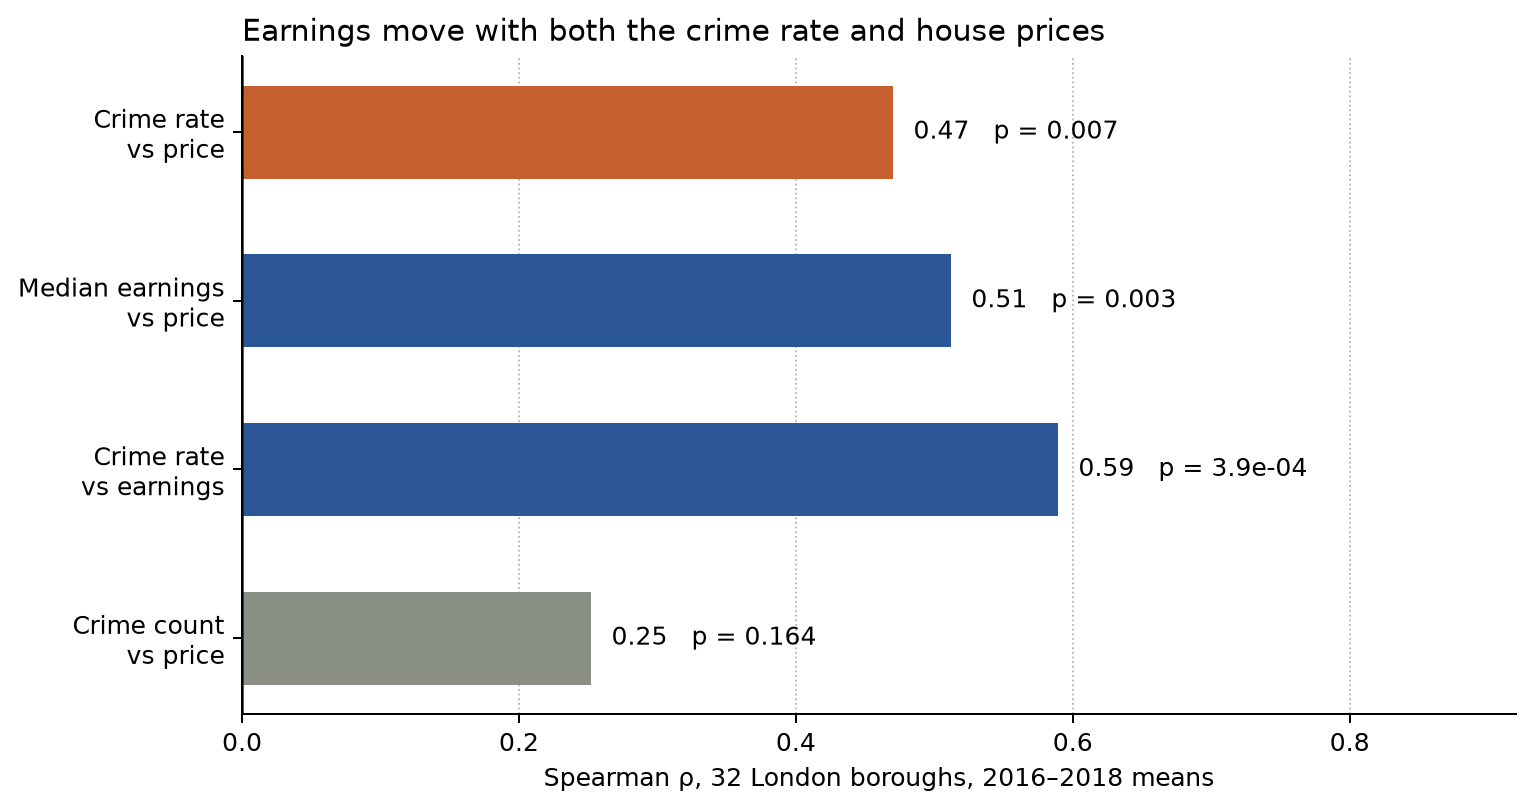
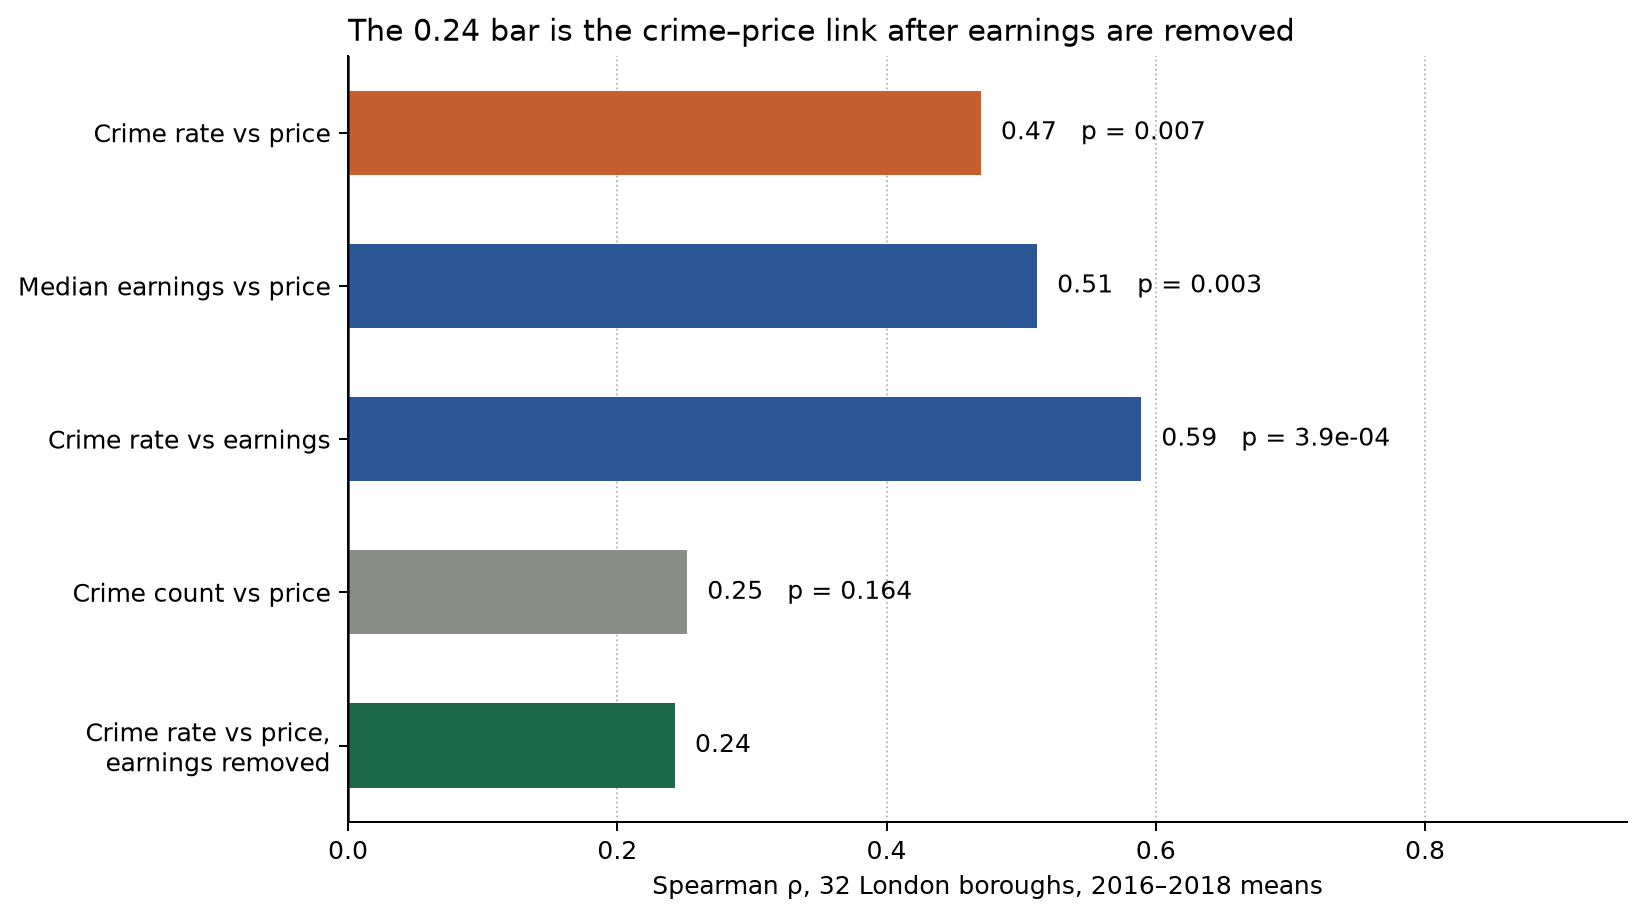
Put the partial correlation on the comparison chart.
A reader could see 0.47 on the figure and still had to find 0.24 in the paragraph.

Changed region(s): [[0.0, 0.0926, 0.9811, 0.9877], [0.1533, 0.0, 0.7971, 0.0617], [0.6745, 0.3704, 0.7052, 0.4012]]

diff --git a/README.md b/README.md
@@ -41,7 +41,7 @@ The result describes 32 boroughs in 2016–2018. It does not show that crime cau
 | `data/housing_in_london_yearly.csv` | Annual earnings, population, jobs, and dwellings |
 | `data/borough_summary_2016_2018.csv` | The 32-borough table the figures use |
 | `figures/crime_vs_house_price.png` | Crime rate against average price |
-| `figures/earnings_on_both_sides.png` | Four Spearman correlations on the same boroughs |
+| `figures/earnings_on_both_sides.png` | The same boroughs, including the crime–price correlation after earnings are removed (ρ = 0.24) |
 
 ## How to run
 
